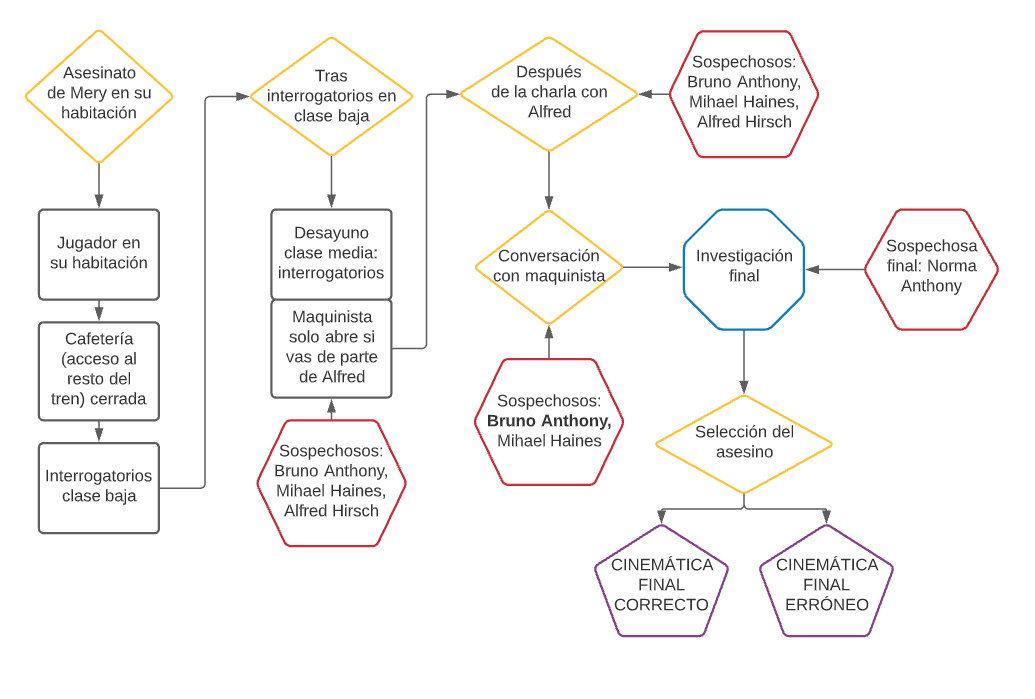
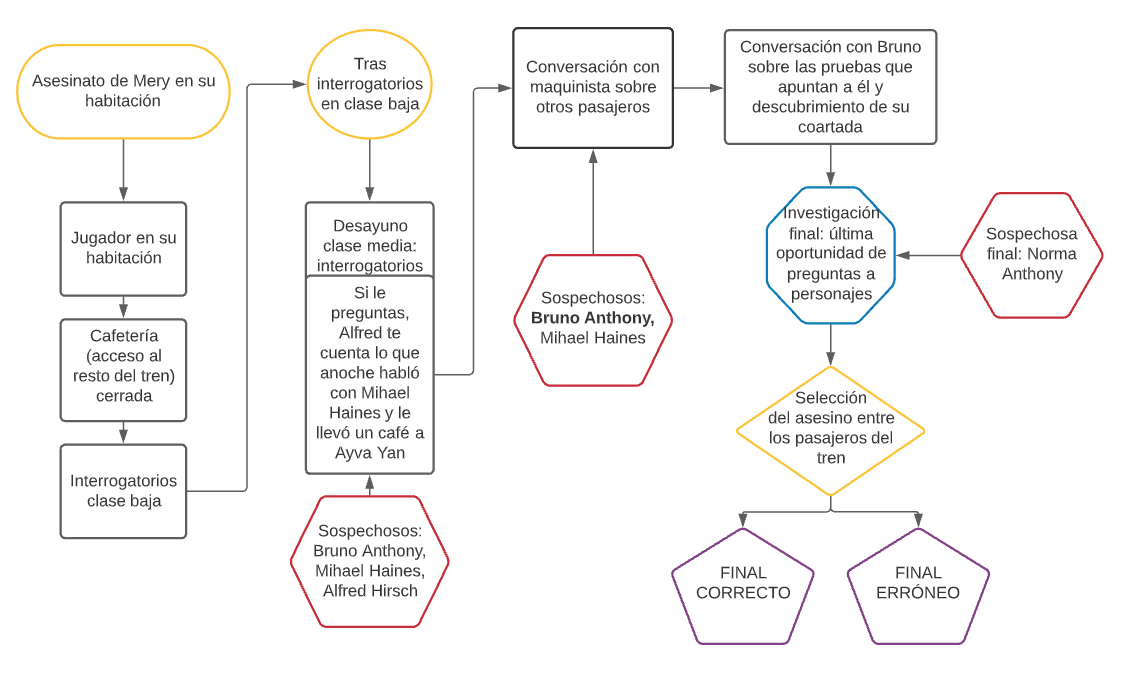
Modificado el diagrama de la historia y añadida una leyenda escrita debajo

Changed region(s): [[0.0, 0.0312, 0.9894, 0.9659]]

diff --git a/README.md b/README.md
@@ -132,6 +132,8 @@ A continuación un diagrama con los puntos clave de la historia principal.
 
 ![](https://github.com/EvSanz/Proyecto-PVLI/blob/main/Imagenes/diagrama.png)
 
+En este diagrama: las formas y colores están seleccionados para claridad visual; la decisión final tras la partida se ve representada como un rombo, los eventos clave entre escenas están en amarillo, las conversaciones más importantes están encuadradas, la fase de investigación final está en azul y consiste en varias conversaciones dentro del límite de acciones, y la dirección de las sospechas que van sugiriendo los personajes del juego se encuentran enmarcadas en rojo.
+
 - ### 5.2. Personajes ###
 
   - **Larry Shepard:** Un humilde pastor de cabras que viaja en el vagón de clase baja acompañado de una de sus cabras a la que esta llevando al veterinario.
